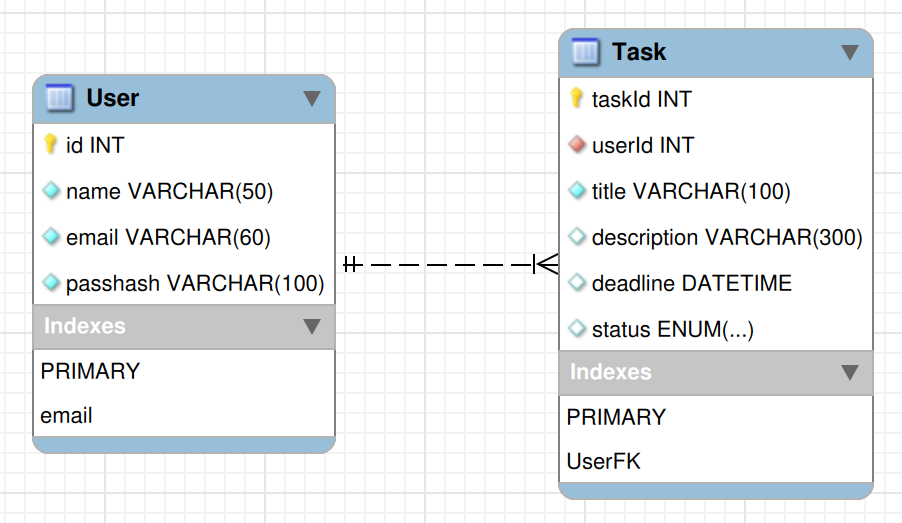
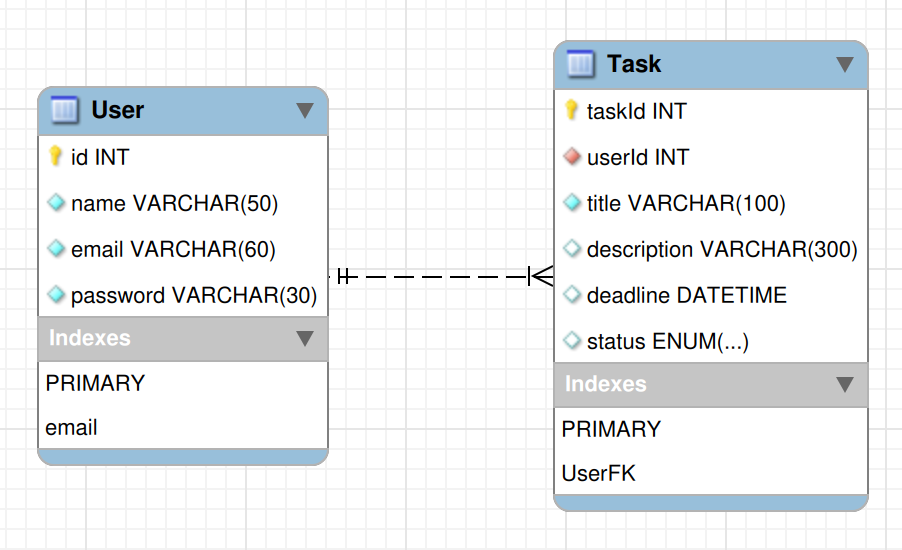
Update: passhash -> password

Changed region(s): [[0.0, 0.0, 1.0, 0.979]]

diff --git a/backend/server/src/queries/user.ts b/backend/server/src/queries/user.ts
@@ -2,7 +2,7 @@ export const QUERY = {
     SELECT_ALL: 'SELECT * FROM `User`;',
     SELECT_NAME: 'SELECT `name` FROM `User` WHERE `id` = ?;',
     SELECT_BY_EMAIL: 'SELECT * FROM `User` WHERE `email` = ?;',
-    CREATE: 'INSERT INTO `User` (`name`, `email`, `passhash`) VALUES (?, ?, ?);',
-    UPDATE: 'UPDATE `User` SET name = ?, email = ?, `passhash` = ? WHERE `id` = ?;',
+    CREATE: 'INSERT INTO `User` (`name`, `email`, `password`) VALUES (?, ?, ?);',
+    UPDATE: 'UPDATE `User` SET name = ?, email = ?, `password` = ? WHERE `id` = ?;',
     DELETE: 'DELETE FROM `User` WHERE `id` = ?;'
 };

diff --git a/backend/server/src/interfaces/user.ts b/backend/server/src/interfaces/user.ts
@@ -5,12 +5,12 @@ export interface IUser {
 
     name: string,
     email:string,
-    passhash: string
+    password: string
 }
 export const VUser: yup.ObjectSchema<IUser> = yup.object().shape({
     id: yup.number().integer().moreThan(0).optional(),
 
     name: yup.string().min(2).max(50).required(),
     email: yup.string().email().min(5).max(60).required(),
-    passhash: yup.string().min(8).required()
+    password: yup.string().min(8).max(30).required()
 });

diff --git a/backend/server/src/controllers/user/login.ts b/backend/server/src/controllers/user/login.ts
@@ -25,7 +25,7 @@ export const login = async (req: Request<{}, {}, ILogin>, res: Response): Promis
         if(result.length > 0){
             let user = result[0] as unknown as IUser;
 
-            if(await Crypto.comparePassword(login.passhash, user.passhash)){
+            if(await Crypto.comparePassword(login.password, user.password)){
 
                 const accessToken = JWT.login({ userId: Number(user.id) });
 

diff --git a/backend/server/src/controllers/user/create.ts b/backend/server/src/controllers/user/create.ts
@@ -16,7 +16,7 @@ export const create = async (req: Request<{}, {}, IUser>, res: Response): Promis
     console.info(`[${new Date().toLocaleString()}] Validated`);
 
     let user: IUser = { ...req.body };
-    user.passhash = await Crypto.hashPassword(user.passhash);
+    user.password = await Crypto.hashPassword(user.password);
 
     try {
         const pool = await connection();

diff --git a/backend/server/src/controllers/user/update.ts b/backend/server/src/controllers/user/update.ts
@@ -18,7 +18,7 @@ export const update = async (req: Request<{}, {}, IUser>, res: Response): Promis
 
     let user: IUser = { ...req.body };
     const userId = Number(String(req.headers.userId));
-    user.passhash = await Crypto.hashPassword(user.passhash);
+    user.password = await Crypto.hashPassword(user.password);
 
     try {
         const pool = await connection();

diff --git a/backend/server/src/interfaces/login.ts b/backend/server/src/interfaces/login.ts
@@ -2,9 +2,9 @@ import * as yup from 'yup';
 
 export interface ILogin {
     email:string,
-    passhash: string
+    password: string
 }
 export const VLogin: yup.ObjectSchema<ILogin> = yup.object().shape({
     email: yup.string().email().min(5).max(60).required(),
-    passhash: yup.string().min(8).required()
+    password: yup.string().min(8).max(30).required()
 });
